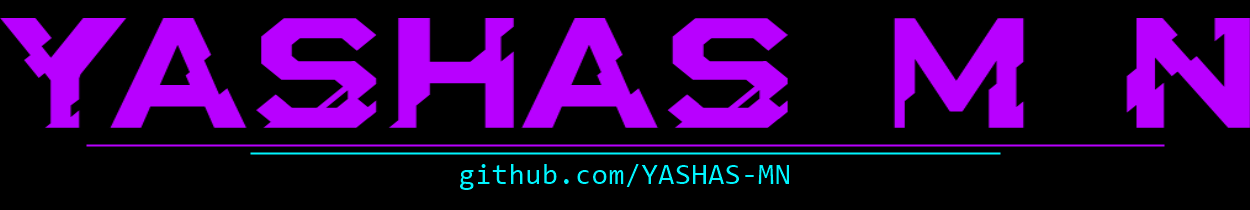
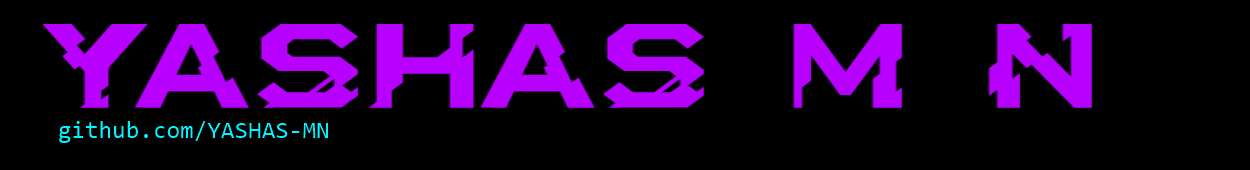
Refine cyberpunk profile layout

diff --git a/README.md b/README.md
@@ -1,3 +1,8 @@
 <p align="center">
   <img src="./assets/header.png" alt="YASHAS M N - github.com/YASHAS-MN" width="100%" />
 </p>
+
+<p align="center">
+  <img src="./Yashas_MN-ASCII.jpeg" alt="Yashas M N profile picture" width="34%" />
+  <img src="./assets/terminal-card.png" alt="Yashas M N terminal portfolio card" width="61%" />
+</p>
